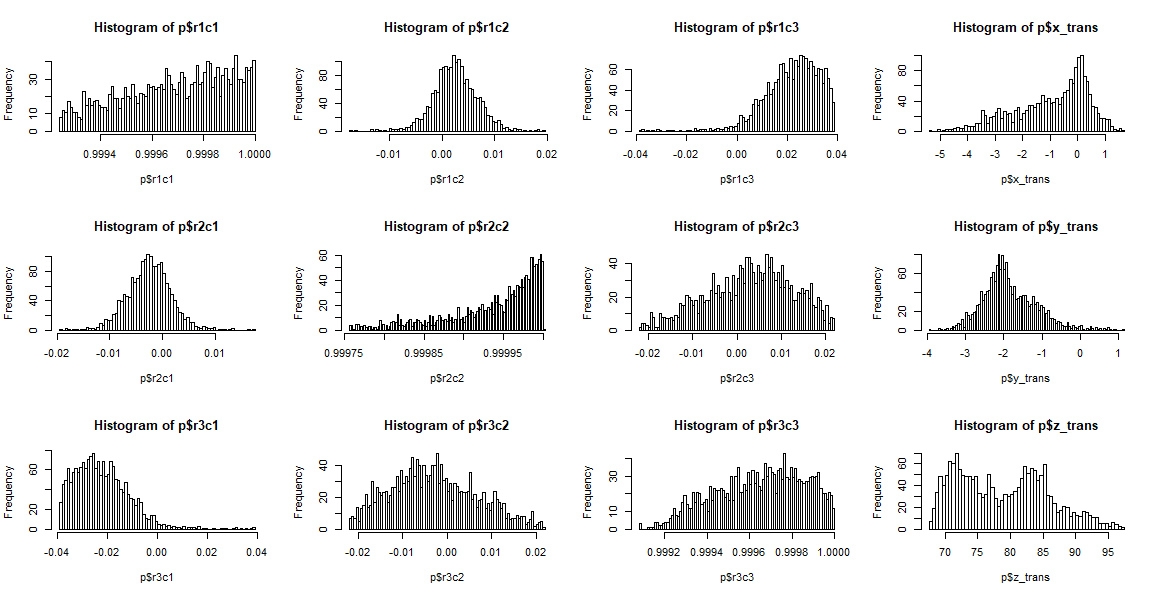
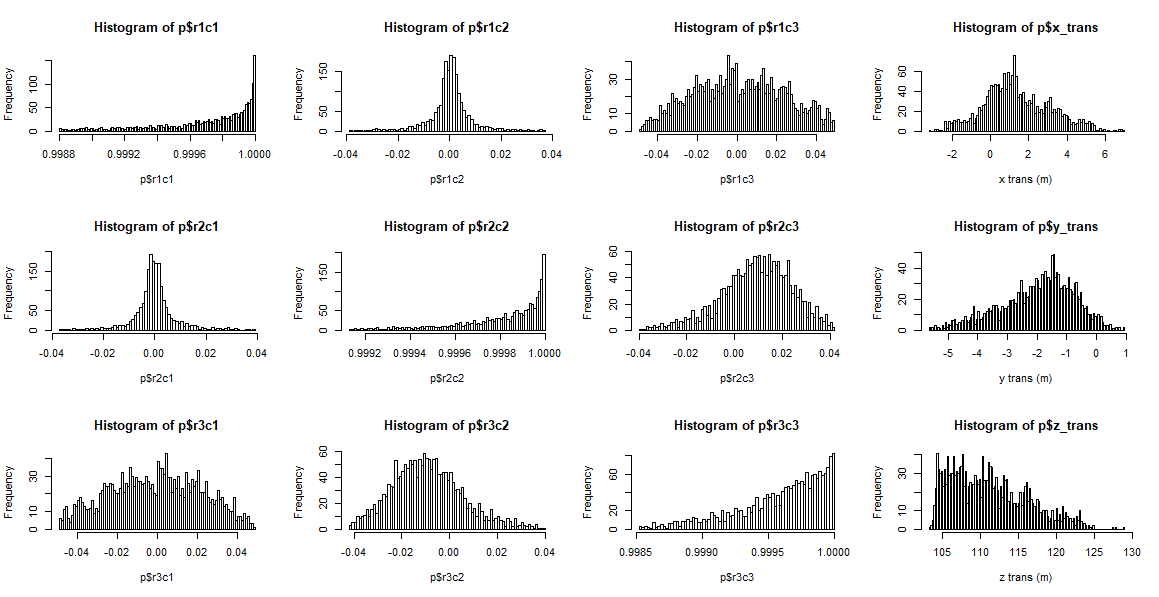
README.md and ICP_vis

diff --git a/ICP_visualization.md b/ICP_visualization.md
@@ -158,7 +158,7 @@ Quantile threhsolds are used below to filter points based on ICP estimated rotat
 
 ``` r
 thr.rotation = 0.25
-thr.RMS = 0.35
+thr.RMS = 0.75
 alpha = 0.01
 
 tail_min = alpha
@@ -220,6 +220,10 @@ hist(p$z_trans, b)
 ```
 
  
+
+Figure 1. Example histograms of ICP estimated shift values for area ALPHA in AFRF block.
+
+![AFRF\_ALPHA\_HISTOGRAMS](images/afrf_alpha_histograms.png)
 
 ------------------------------------------------------------------------
 
